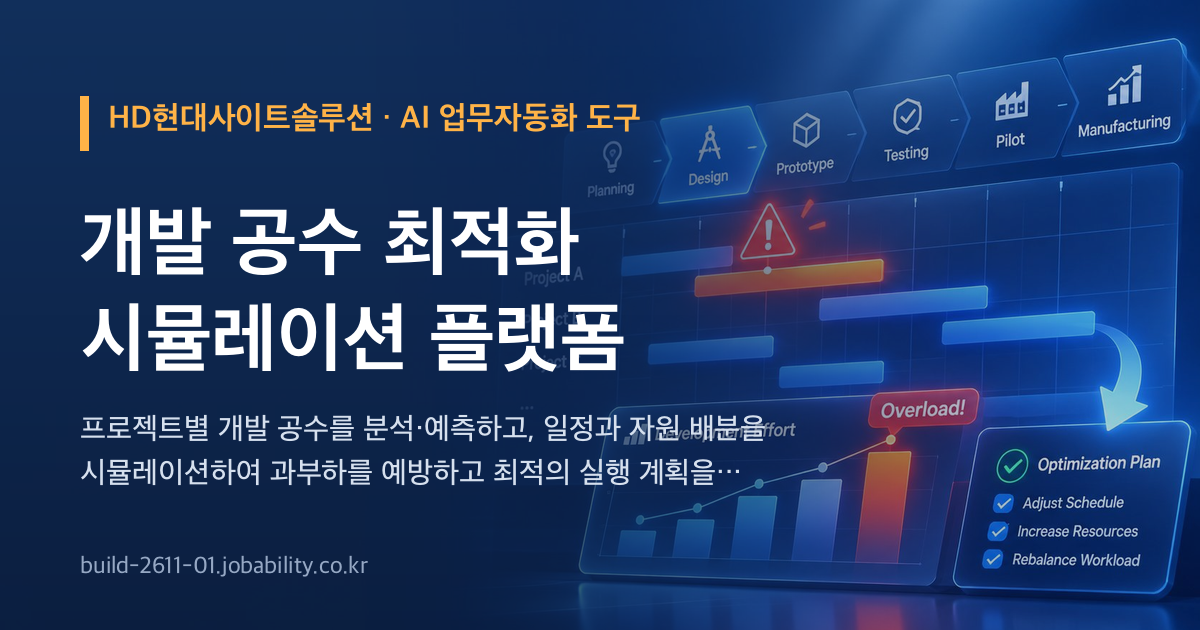
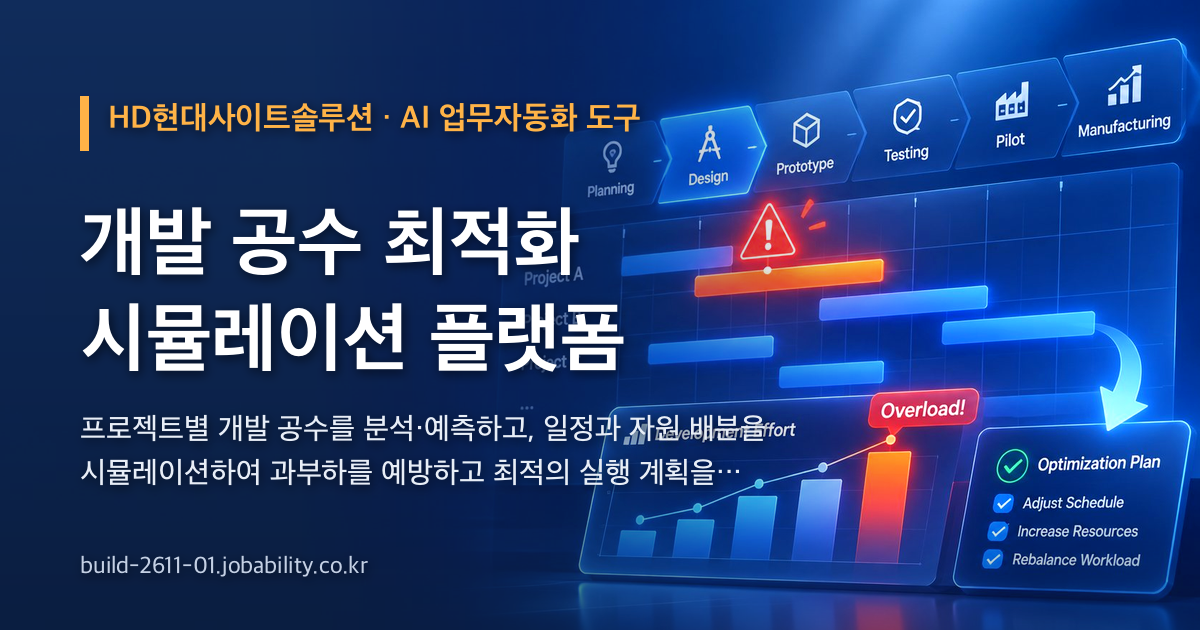
공유 그림 다시(사진 또렷하게) · 판 2026-11-13.12

diff --git a/index.html b/index.html
@@ -12,8 +12,8 @@
 <meta property="og:title" content="HD현대사이트솔루션 · 개발 공수 최적화 시뮬레이션 플랫폼">
 <meta property="og:description" content="프로젝트별 개발 공수를 분석·예측하고, 일정과 자원 배분을 시뮬레이션하여 과부하를 예방하고 최적의 실행 계획을 수립합니다.">
 <meta property="og:url" content="https://build-2611-01.jobability.co.kr/">
-<meta property="og:image" content="https://build-2611-01.jobability.co.kr/og-image.png">
-<meta property="og:image:secure_url" content="https://build-2611-01.jobability.co.kr/og-image.png">
+<meta property="og:image" content="https://build-2611-01.jobability.co.kr/og-image.png?v=2">
+<meta property="og:image:secure_url" content="https://build-2611-01.jobability.co.kr/og-image.png?v=2">
 <meta property="og:image:type" content="image/png">
 <meta property="og:image:width" content="1200">
 <meta property="og:image:height" content="630">
@@ -22,7 +22,7 @@
 <meta name="twitter:card" content="summary_large_image">
 <meta name="twitter:title" content="HD현대사이트솔루션 · 개발 공수 최적화 시뮬레이션 플랫폼">
 <meta name="twitter:description" content="프로젝트별 개발 공수를 분석·예측하고, 일정과 자원 배분을 시뮬레이션하여 과부하를 예방하고 최적의 실행 계획을 수립합니다.">
-<meta name="twitter:image" content="https://build-2611-01.jobability.co.kr/og-image.png">
+<meta name="twitter:image" content="https://build-2611-01.jobability.co.kr/og-image.png?v=2">
 <!-- /seo-kit -->
 <meta name="description" content="프로젝트별 개발 공수를 분석·예측하고, 일정과 자원 배분을 시뮬레이션하여 과부하를 예방하고 최적의 실행 계획을 수립합니다.">
 <link rel="icon" href="favicon.svg" type="image/svg+xml">
@@ -30,9 +30,9 @@
 <link rel="stylesheet" href="css/app.css">
 <!-- auth-kit: 로그인 전에는 도구 화면을 감춘다(js/auth.js 가 판정 뒤 푼다) -->
 <script>document.documentElement.classList.add('auth-lock')</script>
-<link rel="stylesheet" href="css/auth.css?v=2026-11-13.11">
-<link rel="stylesheet" href="css/board.css?v=2026-11-13.11">
-<link rel="stylesheet" href="css/kit-build.css?v=2026-11-13.11">
+<link rel="stylesheet" href="css/auth.css?v=2026-11-13.12">
+<link rel="stylesheet" href="css/board.css?v=2026-11-13.12">
+<link rel="stylesheet" href="css/kit-build.css?v=2026-11-13.12">
 <!-- /auth-kit -->
 </head>
 <body>
@@ -133,11 +133,11 @@
 <script src="js/sim.js"></script>
 <script src="js/app.js"></script>
 <!-- auth-kit: 로그인 · 사용 신청 · 승인 · 게시판(키트 정본 data10-00/kit/auth, 적용 build-2611-00/tools/kit) -->
-<script src="vendor/supabase.js?v=2026-11-13.11"></script>
-<script src="js/auth-config.js?v=2026-11-13.11"></script>
-<script src="js/kit-build.js?v=2026-11-13.11"></script>
-<script src="js/board.js?v=2026-11-13.11"></script>
-<script src="js/auth.js?v=2026-11-13.11"></script>
+<script src="vendor/supabase.js?v=2026-11-13.12"></script>
+<script src="js/auth-config.js?v=2026-11-13.12"></script>
+<script src="js/kit-build.js?v=2026-11-13.12"></script>
+<script src="js/board.js?v=2026-11-13.12"></script>
+<script src="js/auth.js?v=2026-11-13.12"></script>
 <!-- /auth-kit -->
 </body>
 </html>

diff --git a/guide.html b/guide.html
@@ -12,8 +12,8 @@
 <meta property="og:title" content="사용법 — 개발 계획 시뮬레이터">
 <meta property="og:description" content="사내 로드맵 Raw Data(엑셀)를 올리면 개발부터 생산까지 부문별 주간 업무 부하를 계산하고, 부족 구간의 사유와 일정·인원 가정의 변경 전후 비교를 보여 주는 도구입니다.">
 <meta property="og:url" content="https://build-2611-01.jobability.co.kr/guide.html">
-<meta property="og:image" content="https://build-2611-01.jobability.co.kr/og-image.png">
-<meta property="og:image:secure_url" content="https://build-2611-01.jobability.co.kr/og-image.png">
+<meta property="og:image" content="https://build-2611-01.jobability.co.kr/og-image.png?v=2">
+<meta property="og:image:secure_url" content="https://build-2611-01.jobability.co.kr/og-image.png?v=2">
 <meta property="og:image:type" content="image/png">
 <meta property="og:image:width" content="1200">
 <meta property="og:image:height" content="630">
@@ -22,7 +22,7 @@
 <meta name="twitter:card" content="summary_large_image">
 <meta name="twitter:title" content="사용법 — 개발 계획 시뮬레이터">
 <meta name="twitter:description" content="사내 로드맵 Raw Data(엑셀)를 올리면 개발부터 생산까지 부문별 주간 업무 부하를 계산하고, 부족 구간의 사유와 일정·인원 가정의 변경 전후 비교를 보여 주는 도구입니다.">
-<meta name="twitter:image" content="https://build-2611-01.jobability.co.kr/og-image.png">
+<meta name="twitter:image" content="https://build-2611-01.jobability.co.kr/og-image.png?v=2">
 <!-- /seo-kit -->
 <link rel="icon" href="favicon.svg" type="image/svg+xml">
 <link rel="stylesheet" href="css/style.css">

diff --git a/plan.html b/plan.html
@@ -12,8 +12,8 @@
 <meta property="og:title" content="기획서 — 개발 계획 시뮬레이터">
 <meta property="og:description" content="사내 로드맵 Raw Data(엑셀)를 올리면 개발부터 생산까지 부문별 주간 업무 부하를 계산하고, 부족 구간의 사유와 일정·인원 가정의 변경 전후 비교를 보여 주는 도구입니다.">
 <meta property="og:url" content="https://build-2611-01.jobability.co.kr/plan.html">
-<meta property="og:image" content="https://build-2611-01.jobability.co.kr/og-image.png">
-<meta property="og:image:secure_url" content="https://build-2611-01.jobability.co.kr/og-image.png">
+<meta property="og:image" content="https://build-2611-01.jobability.co.kr/og-image.png?v=2">
+<meta property="og:image:secure_url" content="https://build-2611-01.jobability.co.kr/og-image.png?v=2">
 <meta property="og:image:type" content="image/png">
 <meta property="og:image:width" content="1200">
 <meta property="og:image:height" content="630">
@@ -22,7 +22,7 @@
 <meta name="twitter:card" content="summary_large_image">
 <meta name="twitter:title" content="기획서 — 개발 계획 시뮬레이터">
 <meta name="twitter:description" content="사내 로드맵 Raw Data(엑셀)를 올리면 개발부터 생산까지 부문별 주간 업무 부하를 계산하고, 부족 구간의 사유와 일정·인원 가정의 변경 전후 비교를 보여 주는 도구입니다.">
-<meta name="twitter:image" content="https://build-2611-01.jobability.co.kr/og-image.png">
+<meta name="twitter:image" content="https://build-2611-01.jobability.co.kr/og-image.png?v=2">
 <!-- /seo-kit -->
 <link rel="icon" href="favicon.svg" type="image/svg+xml">
 <link rel="stylesheet" href="css/style.css">

diff --git a/report.html b/report.html
@@ -12,8 +12,8 @@
 <meta property="og:title" content="평가보고서 — 개발 계획 시뮬레이터">
 <meta property="og:description" content="개발 계획 시뮬레이터 점검 · 평가보고서(2026-11-13) — 사이트 점검, 기능과 시험, 인계 준비, 판 이력, 한계.">
 <meta property="og:url" content="https://build-2611-01.jobability.co.kr/report.html">
-<meta property="og:image" content="https://build-2611-01.jobability.co.kr/og-image.png">
-<meta property="og:image:secure_url" content="https://build-2611-01.jobability.co.kr/og-image.png">
+<meta property="og:image" content="https://build-2611-01.jobability.co.kr/og-image.png?v=2">
+<meta property="og:image:secure_url" content="https://build-2611-01.jobability.co.kr/og-image.png?v=2">
 <meta property="og:image:type" content="image/png">
 <meta property="og:image:width" content="1200">
 <meta property="og:image:height" content="630">
@@ -22,7 +22,7 @@
 <meta name="twitter:card" content="summary_large_image">
 <meta name="twitter:title" content="평가보고서 — 개발 계획 시뮬레이터">
 <meta name="twitter:description" content="개발 계획 시뮬레이터 점검 · 평가보고서(2026-11-13) — 사이트 점검, 기능과 시험, 인계 준비, 판 이력, 한계.">
-<meta name="twitter:image" content="https://build-2611-01.jobability.co.kr/og-image.png">
+<meta name="twitter:image" content="https://build-2611-01.jobability.co.kr/og-image.png?v=2">
 <!-- /seo-kit -->
 <meta name="description" content="개발 계획 시뮬레이터 점검 · 평가보고서(2026-11-13) — 사이트 점검, 기능과 시험, 인계 준비, 판 이력, 한계.">
 <link rel="icon" href="favicon.svg" type="image/svg+xml">
